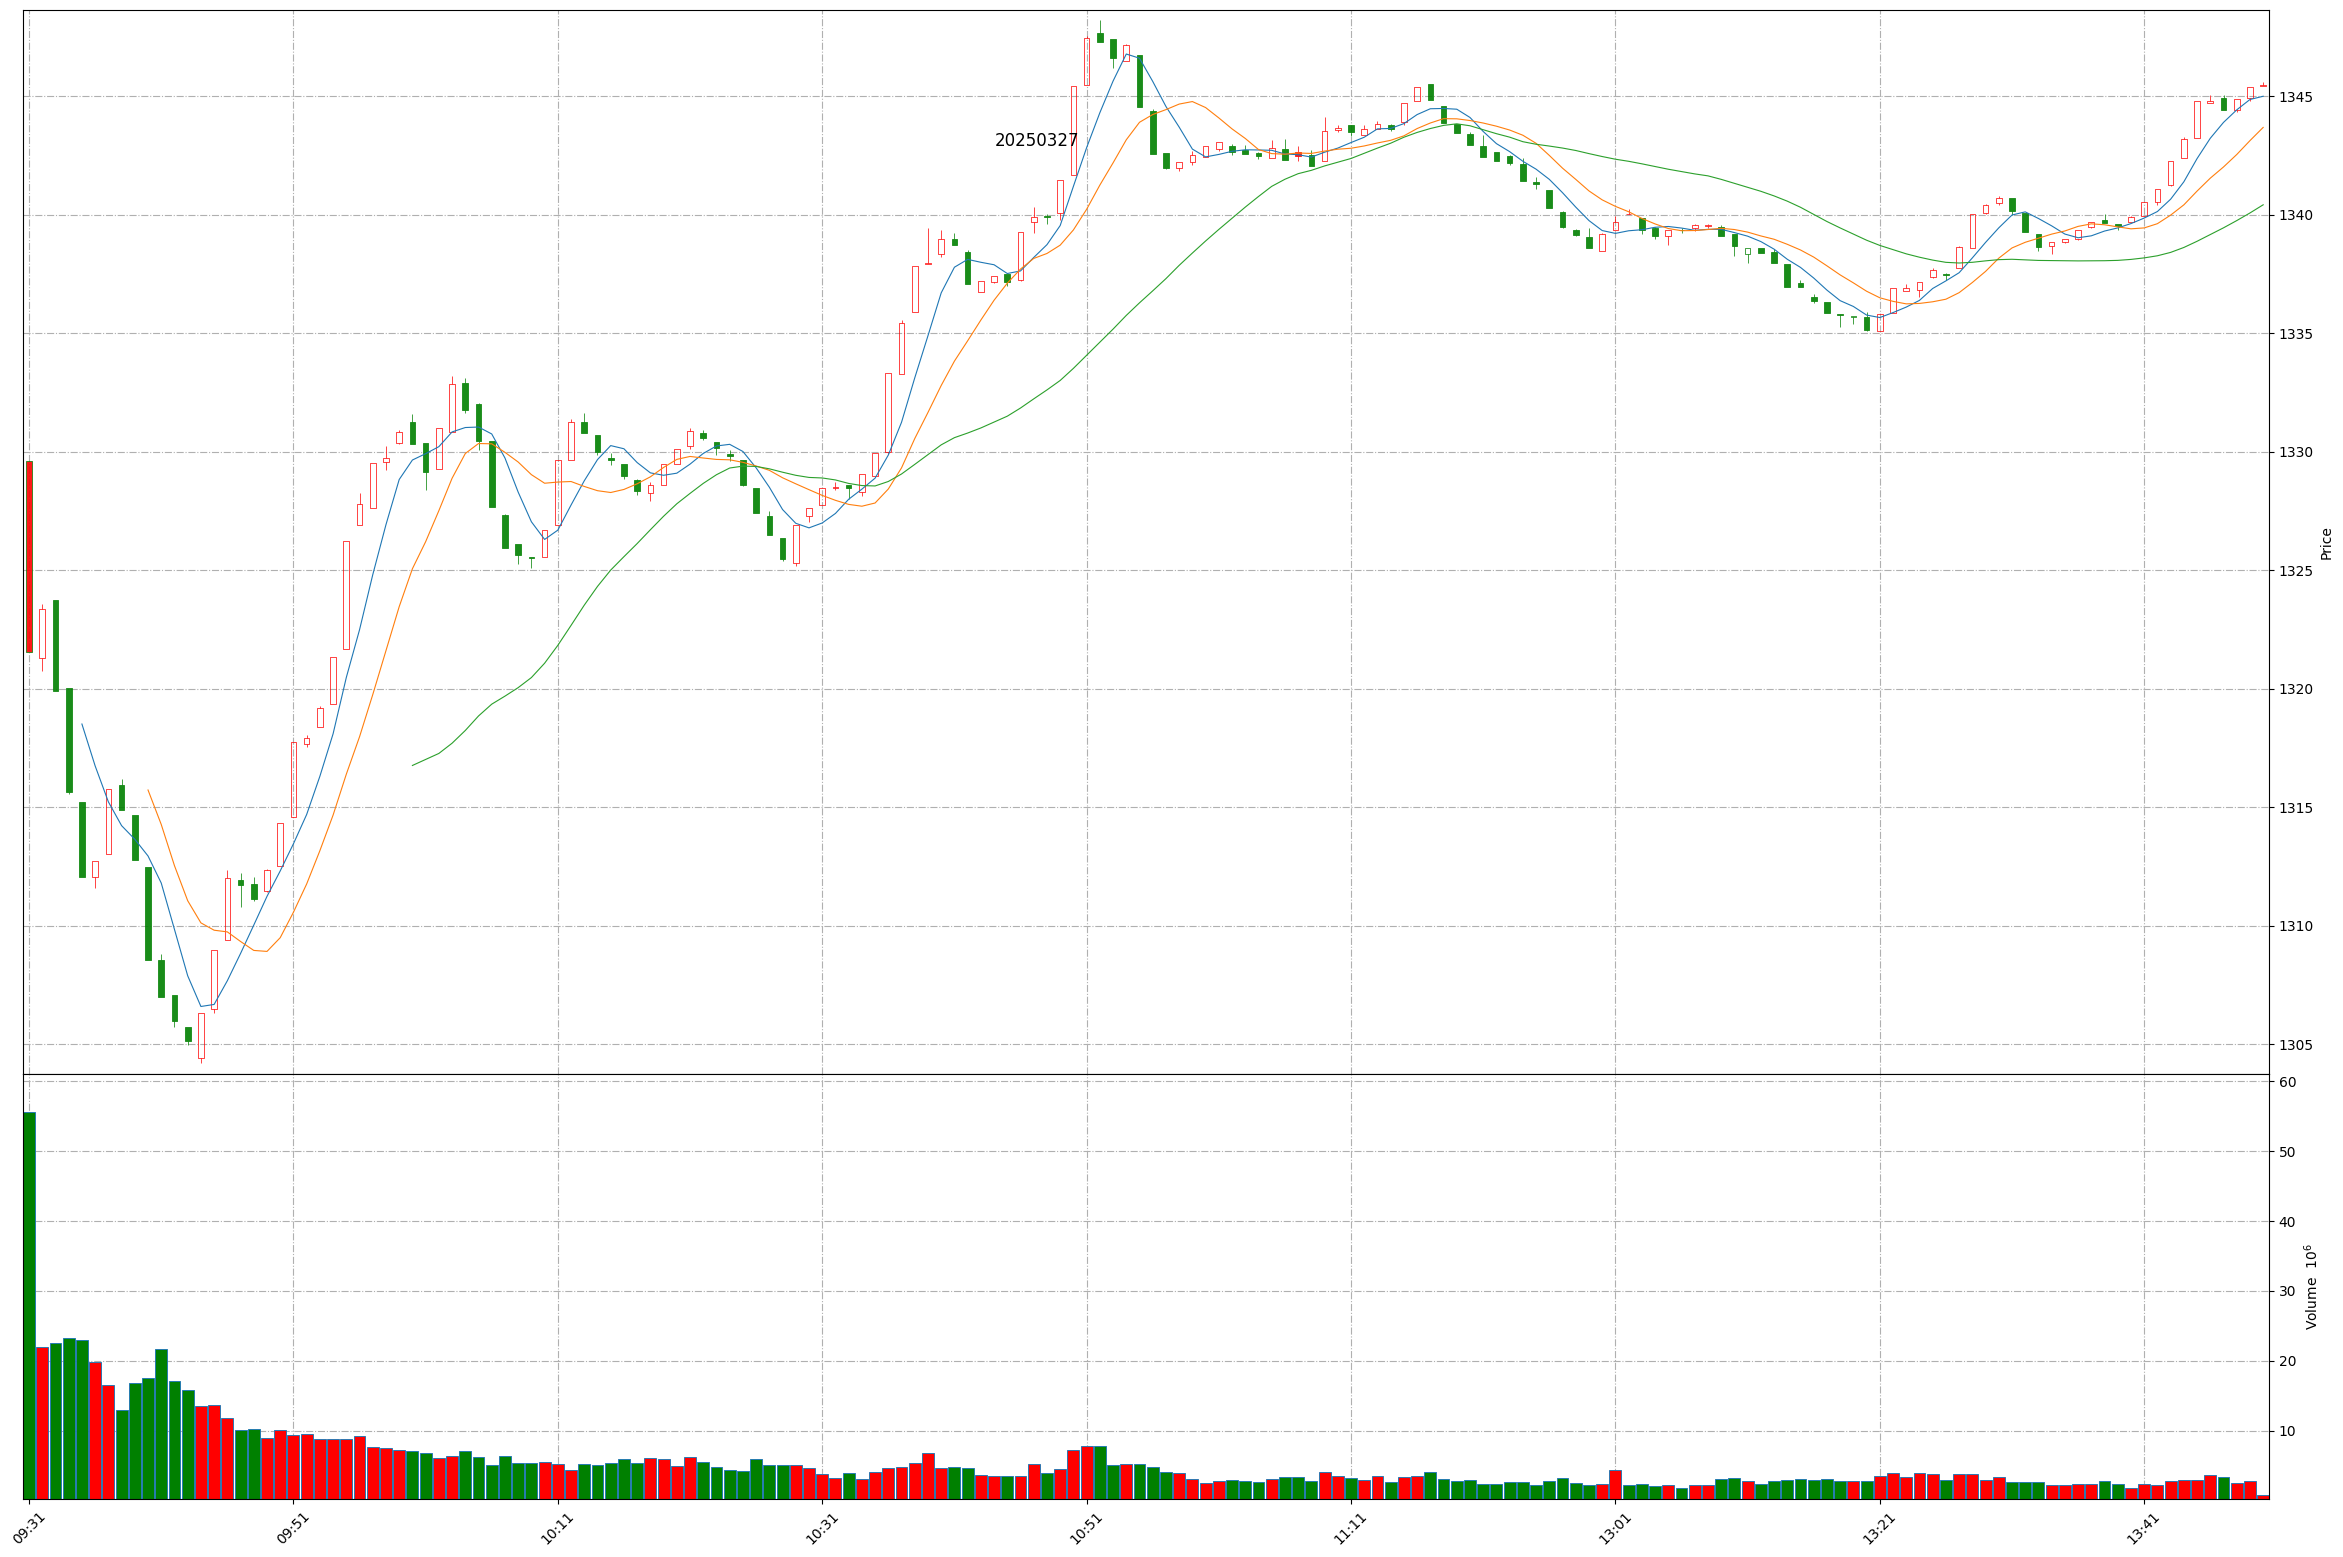
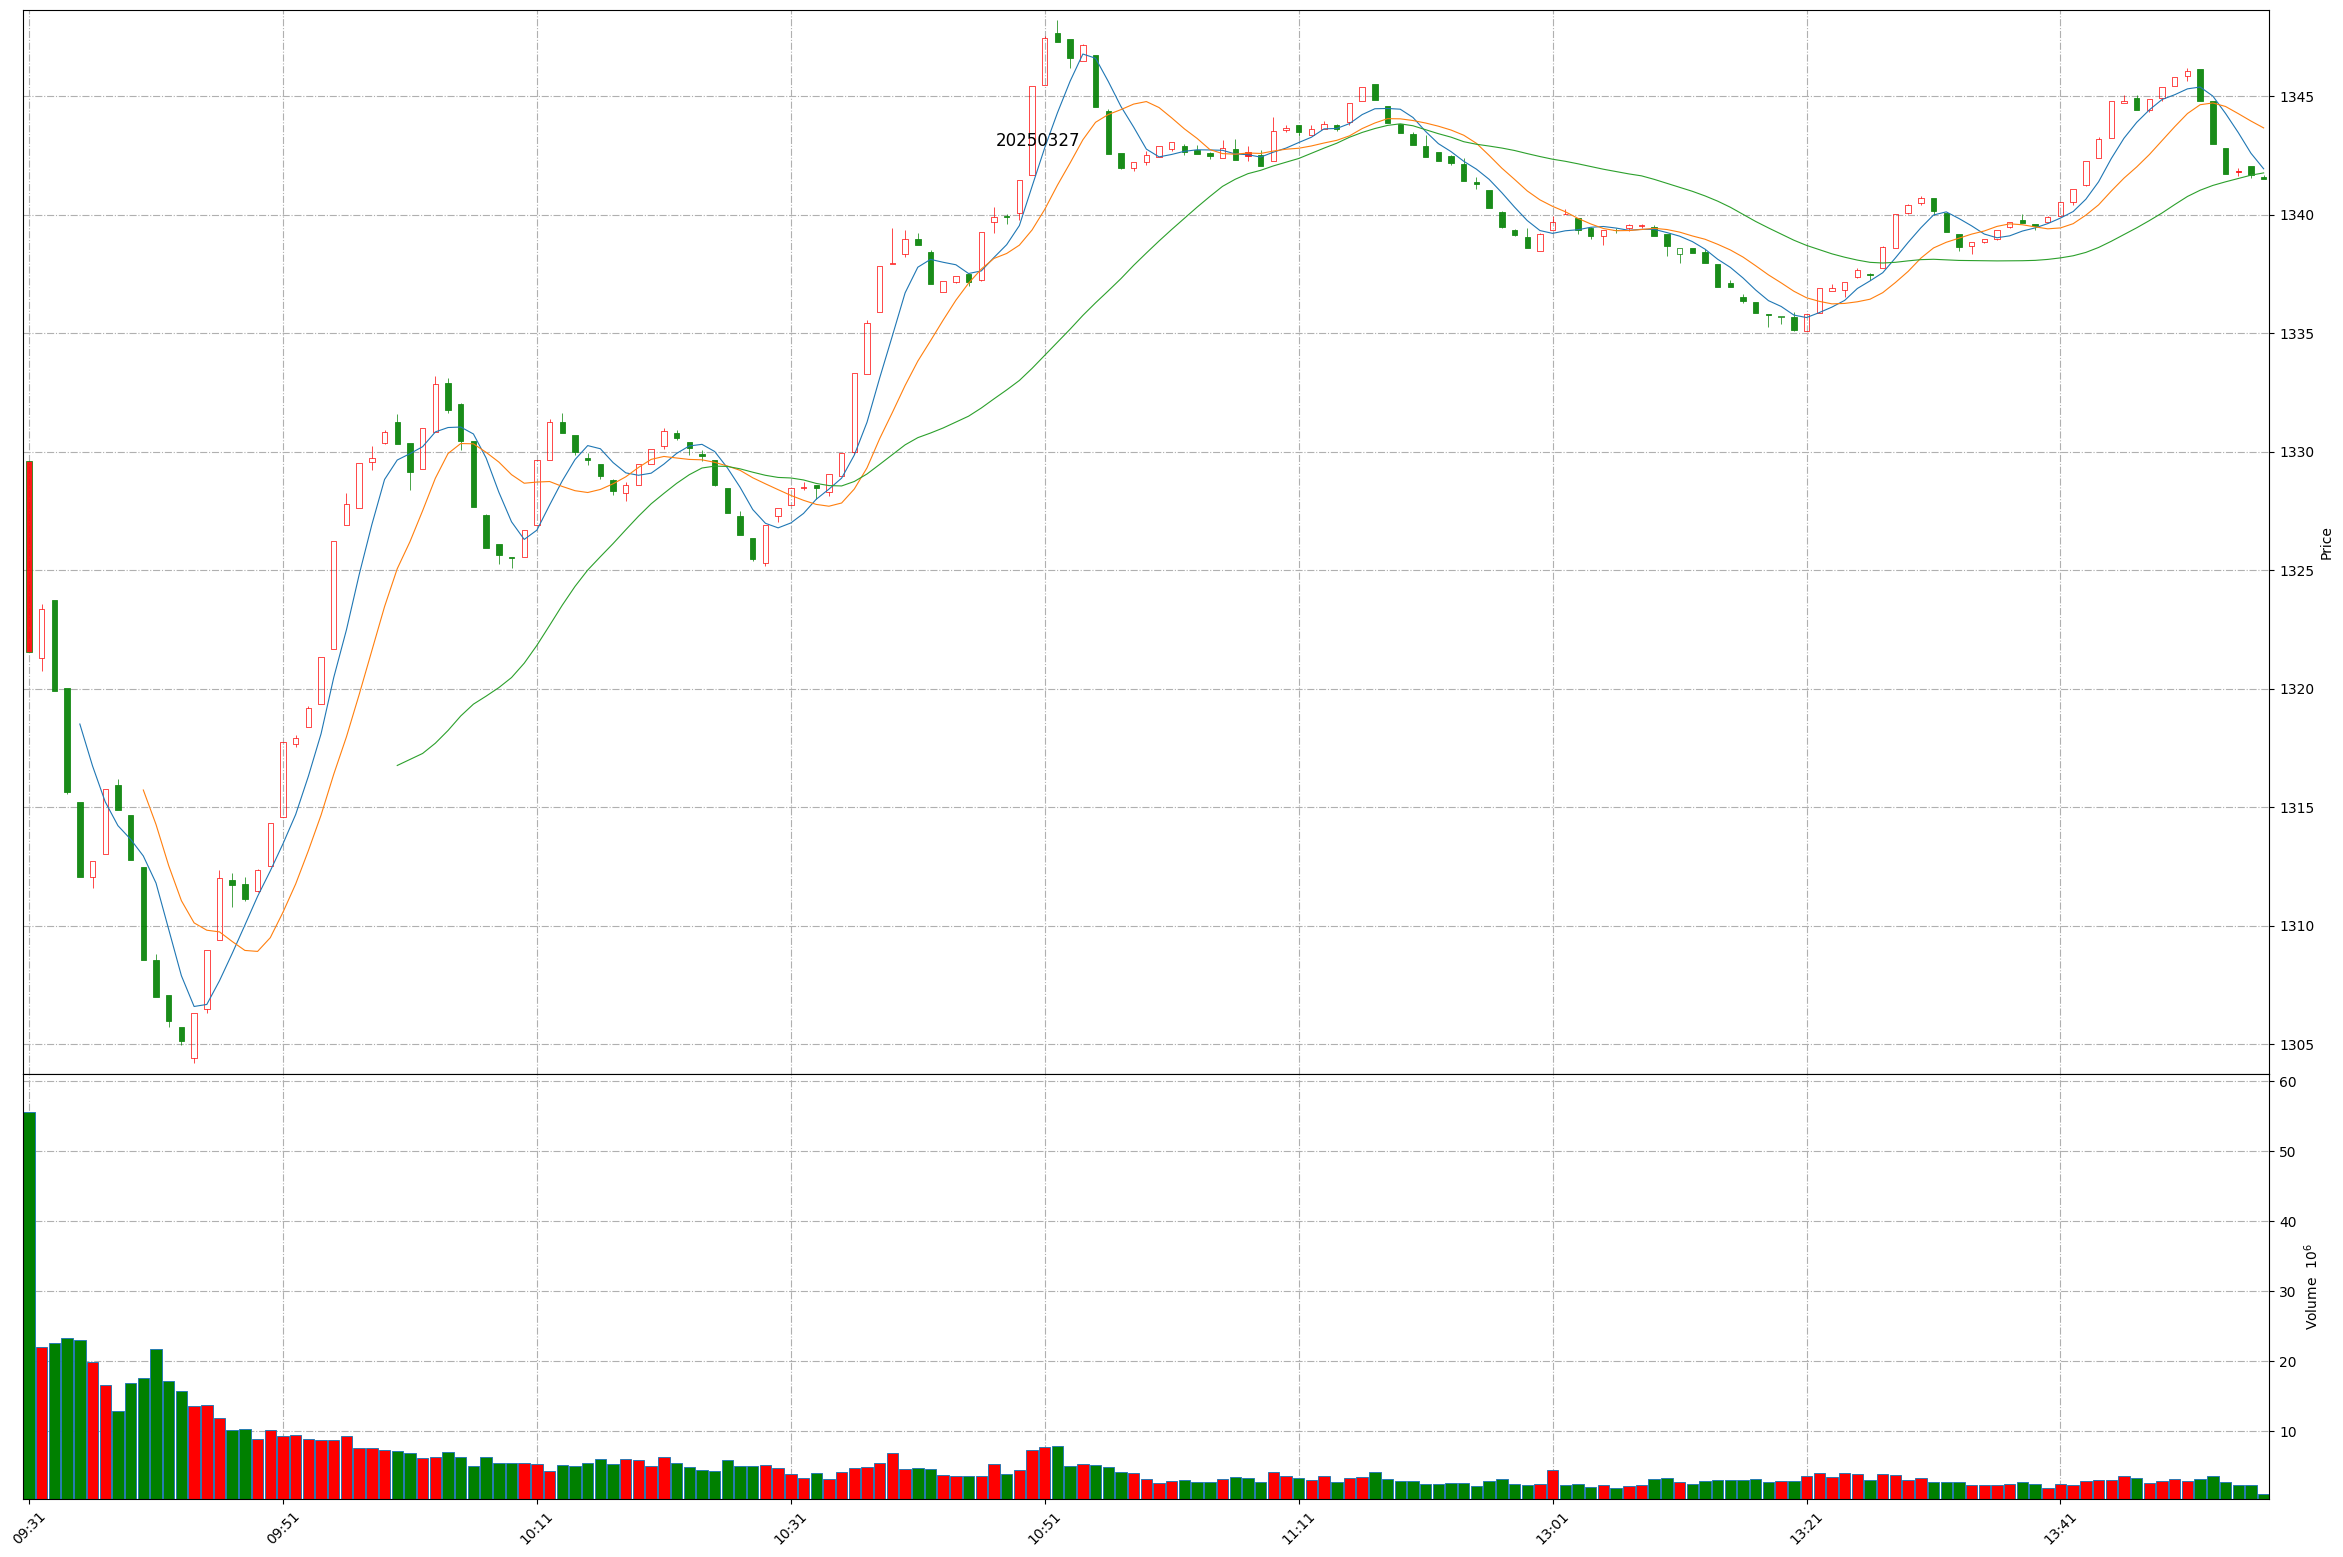
Github action update at 2025-03-27 13:56:48.

diff --git a/README.md b/README.md
@@ -1,11 +1,11 @@
 
 # Daily-A-share-market-quotes 每日 A 股指数（5min 更新）- 20250327
 
-### 上证指数 20250327 13:49
+### 上证指数 20250327 13:56
 ![](./fig/2025/3/20250327-sh000001.png)
 
-### 深证成指 20250327 13:49
+### 深证成指 20250327 13:56
 ![](./fig/2025/3/20250327-sz399001.png)
 
-### 北证50 20250327 13:49
+### 北证50 20250327 13:56
 ![](./fig/2025/3/20250327-bj899050.png)
